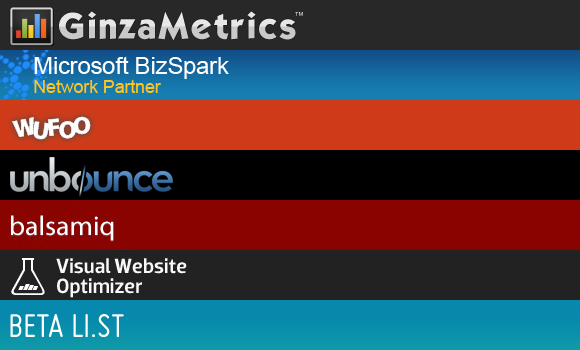
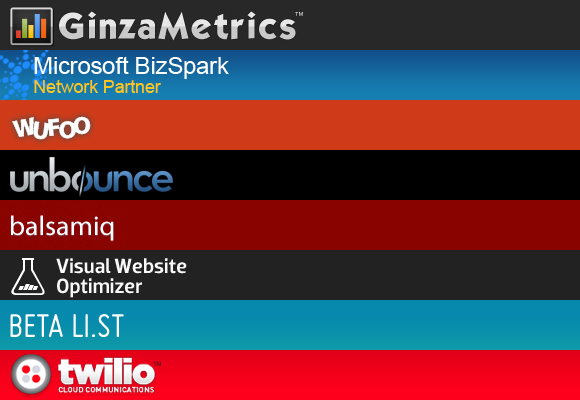
added twilio as partner

diff --git a/app/views/Application/partners.html b/app/views/Application/partners.html
@@ -52,6 +52,10 @@
       background-position: left 0px;
     }
 
+    .offers .twilio h3 {
+      background-position: left -350px;
+    }
+
     .offers .unbounce h3 {
       background-position: left -150px;
     }
@@ -142,6 +146,18 @@
       </p>
       <p class="benefits">
         <em>Free</em> access to the Starter plan for four months, a $76 value.
+      </p>
+    </section>
+
+    <section class="twilio">
+      <h3>Twilio</h3>
+      <p>
+        <a href="http://www.twilio.com">Twilio</a> provides an API for businesses to build scalable, reliable
+        communication apps. They have done the hard work of abstracting complex telecom languages and PBX software
+        away so you can focus on interacting with phone callers.
+      </p>
+      <p class="benefits">
+        Get a free <em>$20</em> bonus credit when upgrading your account for the first time.
       </p>
     </section>
 
